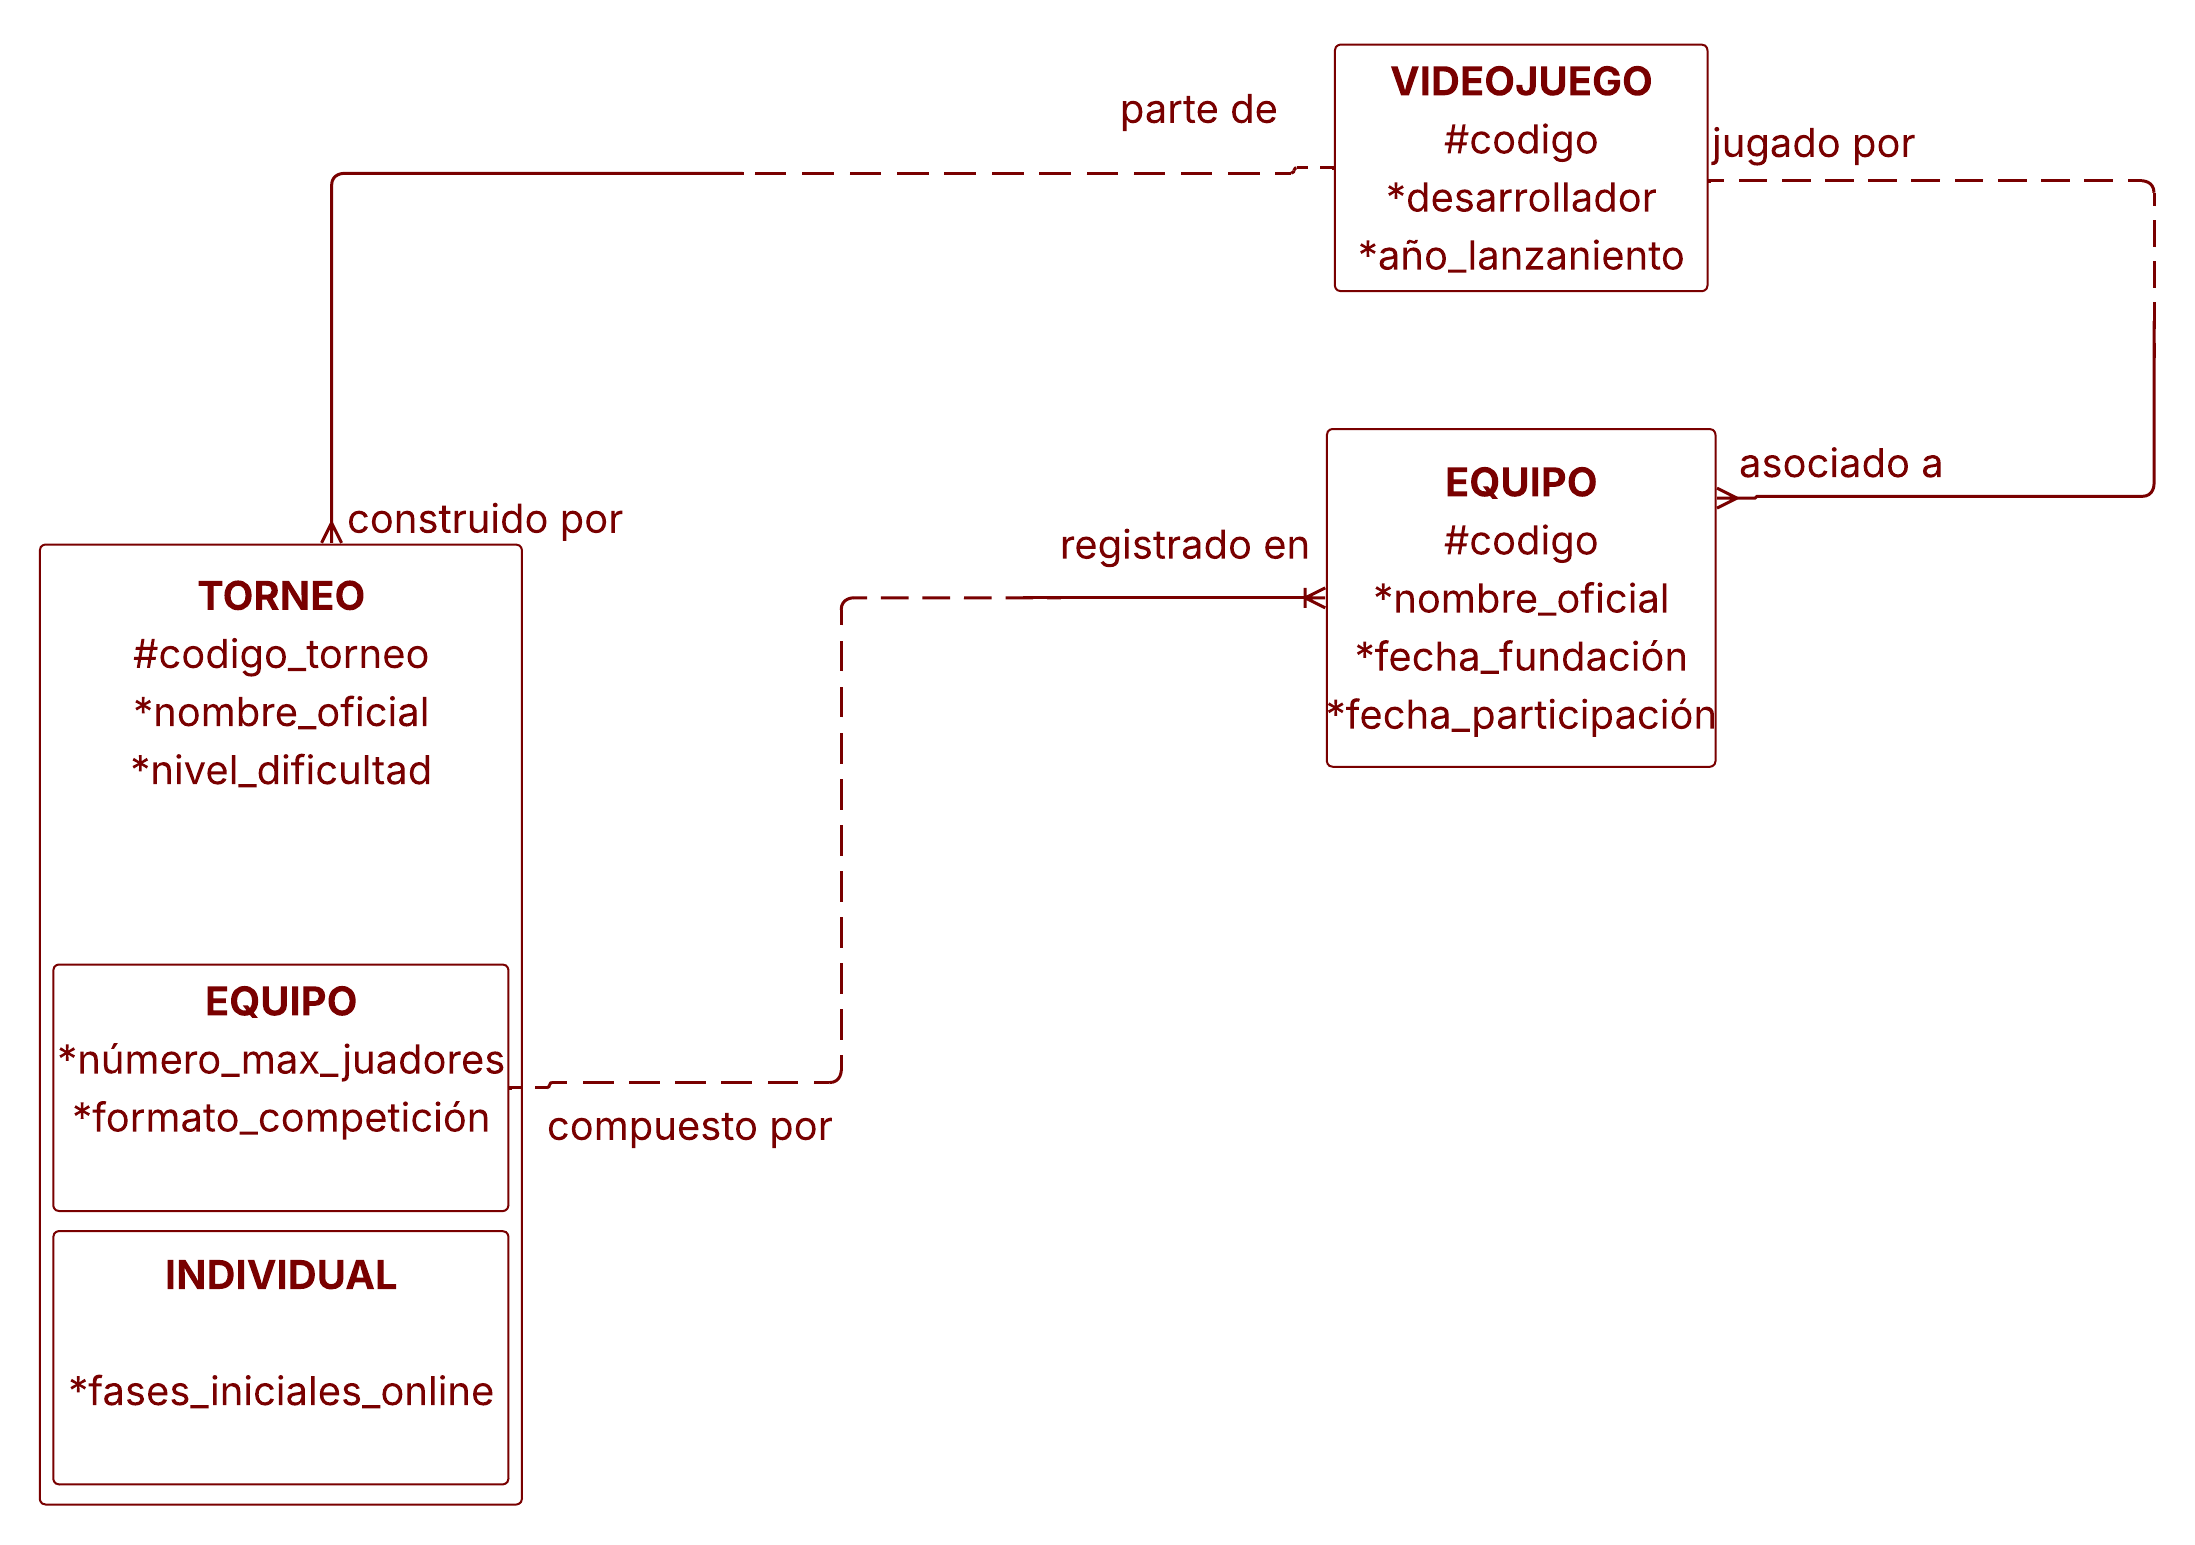
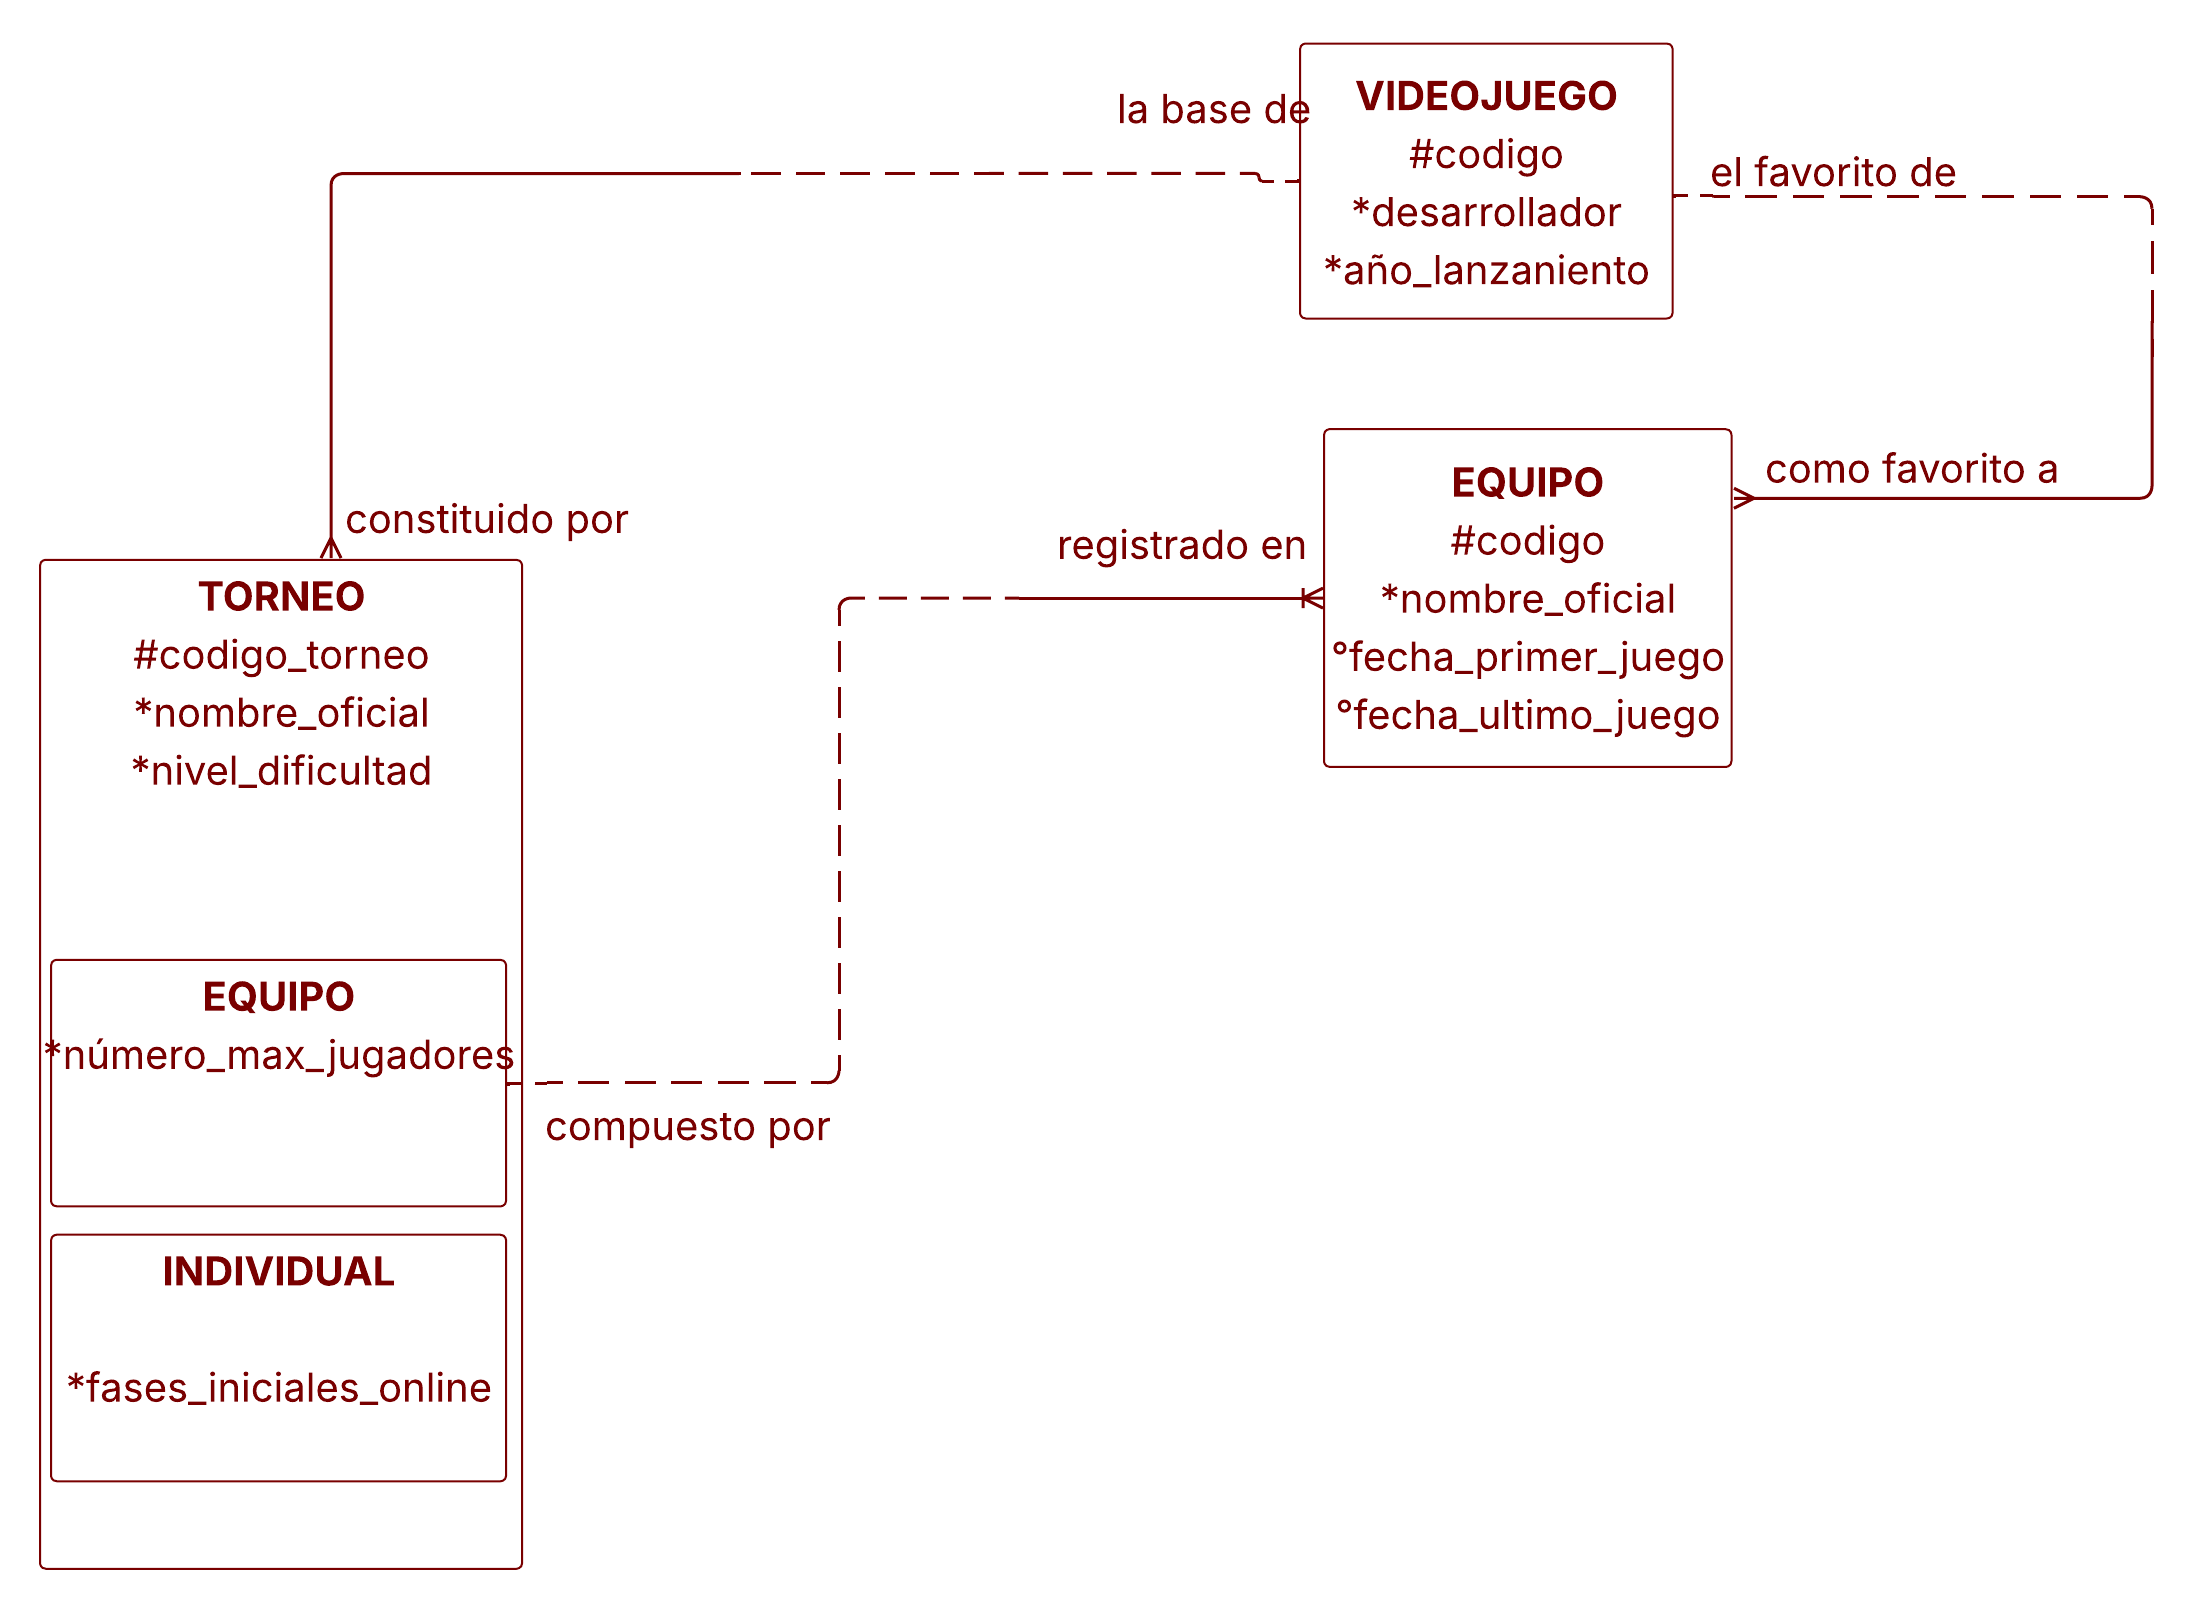
modified:   EQUIPO/equipo.php 	modified:   EQUIPO/equipo_delete.php 	modified:   EQUIPO/equipo_insert.php 	modified:   EQUIPO/equipo_select.php 	modified:   VIDEOJUEGO/videojuego_delete.php 	modified:   dbEjemplo.txt 	modified:   modelo.png

diff --git a/EQUIPO/equipo.php b/EQUIPO/equipo.php
@@ -3,12 +3,12 @@ include "../includes/header.php";
 ?>
 
 <!-- TÍTULO. Cambiarlo, pero dejar especificada la analogía -->
-<h1 class="mt-3 fw-bold">Entidad análoga a EMPRESA (NOMBRE)</h1>
+<h1 class="mt-3 fw-bold">Entidad Equipo</h1>
 
 <!-- FORMULARIO. Cambiar los campos de acuerdo a su trabajo -->
 <div class="formulario p-4 m-3 border rounded-3">
 
-    <form action="empresa_insert.php" method="post" class="form-group">
+    <form action="equipo_insert.php" method="post" class="form-group">
 
         <div class="mb-3">
             <label for="codigo" class="form-label">codigo del equipo</label>
@@ -16,50 +16,34 @@ include "../includes/header.php";
         </div>
 
         <div class="mb-3">
-            <label for="nombre" class="form-label">Nombre del equipo</label>
-            <input type="text" class="form-control" id="nombre" name="nombre" required>
+            <label for="nombre_oficial" class="form-label">Nombre del equipo</label>
+            <input type="text" class="form-control" id="nombre_oficial" name="nombre_oficial" required>
         </div>
 
         <div class="mb-3">
-            <label for="presupuesto" class="form-label">Presupuesto</label>
-            <input type="number" class="form-control" id="presupuesto" name="presupuesto" required>
+            <label for="fecha_primer_juego" class="form-label">Fecha del primer juego</label>
+            <input type="date" class="form-control" id="fecha_primer_juego" name="fecha_primer_juego" required>
         </div>
         
         <div class="mb-3">
-            <label for="fecha_fundacion" class="form-label">Fecha de fundación</label>
-            <input type="date" class="form-control" id="fecha_fundacion" name="fecha_fundacion" required>
-        </div>
-
-        <div class="mb-3">
-            <label for="fecha_participacion" class="form-label">Fecha de participación</label>
-            <input type="date" class="form-control" id="fecha_participacion" name="fecha_participacion" required>
+            <label for="fecha_ultimo_juego" class="form-label">Fecha del último juego</label>
+            <input type="date" class="form-control" id="fecha_ultimo_juego" name="fecha_ultimo_juego" required>
         </div>
         
         <!-- Consultar la lista de clientes y desplegarlos -->
         <div class="mb-3">
-            <label for="cliente" class="form-label">Cliente</label>
-            <select name="cliente" id="cliente" class="form-select">
-                
-                <!-- Option por defecto -->
-                <option value="" selected disabled hidden></option>
-
+            <label for="videojuego_favorito_codigo" class="form-label">Videojuego favorito (código)</label>
+            <select class="form-select" id="videojuego_favorito_codigo" name="videojuego_favorito_codigo">
+                <option value="">Seleccione videojuego...</option>
                 <?php
-                // Importar el código del otro archivo
-                require("../cliente/cliente_select.php");
-                
-                // Verificar si llegan datos
-                if($resultadoCliente):
-                    
-                    // Iterar sobre los registros que llegaron
-                    foreach ($resultadoCliente as $fila):
+                // Cargar opciones desde VIDEOJUEGO/videojuego_select.php
+                require_once('../VIDEOJUEGO/videojuego_select.php');
+                if(isset($resultadovideo) && $resultadovideo->num_rows > 0):
+                    while($v = mysqli_fetch_assoc($resultadovideo)):
                 ?>
-
-                <!-- Opción que se genera -->
-                <option value="<?= $fila["cedula"]; ?>"><?= $fila["nombre"]; ?> - C.C. <?= $fila["cedula"]; ?></option>
-
+                    <option value="<?= htmlspecialchars($v['codigo']); ?>"><?= htmlspecialchars($v['codigo']); ?> - <?= htmlspecialchars($v['desarrollador'] ?? $v['nombre'] ?? ''); ?></option>
                 <?php
-                        // Cerrar los estructuras de control
-                    endforeach;
+                    endwhile;
                 endif;
                 ?>
             </select>
@@ -103,7 +87,7 @@ include "../includes/header.php";
 require("equipo_select.php");
 
 // Verificar si llegan datos
-if($resultadoEmpresa and $resultadoEmpresa->num_rows > 0):
+if(isset($resultadoEquipo) && $resultadoEquipo and $resultadoEquipo->num_rows > 0):
 ?>
 
 <!-- MOSTRAR LA TABLA. Cambiar las cabeceras -->
@@ -114,10 +98,11 @@ if($resultadoEmpresa and $resultadoEmpresa->num_rows > 0):
         <!-- Títulos de la tabla, cambiarlos -->
         <thead class="table-dark">
             <tr>
-                <th scope="col" class="text-center">NIT</th>
+                <th scope="col" class="text-center">Código</th>
                 <th scope="col" class="text-center">Nombre</th>
-                <th scope="col" class="text-center">Presupuesto</th>
-                <th scope="col" class="text-center">Cliente</th>
+                <th scope="col" class="text-center">Fecha primer juego</th>
+                <th scope="col" class="text-center">Fecha último juego</th>
+                <th scope="col" class="text-center">Videojuego código</th>
                 <th scope="col" class="text-center">Acciones</th>
             </tr>
         </thead>
@@ -126,21 +111,22 @@ if($resultadoEmpresa and $resultadoEmpresa->num_rows > 0):
 
             <?php
             // Iterar sobre los registros que llegaron
-            foreach ($resultadoEmpresa as $fila):
+            foreach ($resultadoEquipo as $fila):
             ?>
 
             <!-- Fila que se generará -->
             <tr>
                 <!-- Cada una de las columnas, con su valor correspondiente -->
-                <td class="text-center"><?= $fila["nit"]; ?></td>
-                <td class="text-center"><?= $fila["nombre"]; ?></td>
-                <td class="text-center">$<?= $fila["presupuesto"]; ?></td>
-                <td class="text-center">C.C. <?= $fila["cliente"]; ?></td>
+                <td class="text-center"><?= htmlspecialchars($fila["codigo"]); ?></td>
+                <td class="text-center"><?= htmlspecialchars($fila["nombre_oficial"]); ?></td>
+                <td class="text-center"><?= htmlspecialchars($fila["fecha_primer_juego"] ?? ''); ?></td>
+                <td class="text-center"><?= htmlspecialchars($fila["fecha_ultimo_juego"] ?? ''); ?></td>
+                <td class="text-center"><?= htmlspecialchars($fila["videojuego_favorito_codigo"] ?? ''); ?></td>
                 
                 <!-- Botón de eliminar. Debe de incluir la CP de la entidad para identificarla -->
                 <td class="text-center">
                     <form action="equipo_delete.php" method="post">
-                        <input hidden type="text" name="nitEliminar" value="<?= $fila["nit"]; ?>">
+                        <input hidden type="text" name="codigoEliminar" value="<?= htmlspecialchars($fila["codigo"]); ?>">
                         <button type="submit" class="btn btn-danger">Eliminar</button>
                     </form>
                 </td>

diff --git a/EQUIPO/equipo_insert.php b/EQUIPO/equipo_insert.php
@@ -4,39 +4,56 @@
 require('../config/conexion.php');
 
 // Sacar los datos del formulario. Cada input se identifica con su "name"
-// Datos del formulario
-$nit = isset($_POST["nit"]) ? $_POST["nit"] : '';
-$nombre = isset($_POST["nombre"]) ? $_POST["nombre"] : '';
-$presupuesto = isset($_POST["presupuesto"]) ? $_POST["presupuesto"] : 0;
-$cliente = isset($_POST["cliente"]) ? $_POST["cliente"] : '';
+$codigo = isset($_POST['codigo']) ? intval($_POST['codigo']) : null;
+$nombre_oficial = isset($_POST['nombre_oficial']) ? $_POST['nombre_oficial'] : '';
+$fecha_primer_juego = isset($_POST['fecha_primer_juego']) && $_POST['fecha_primer_juego'] !== '' ? $_POST['fecha_primer_juego'] : null;
+$fecha_ultimo_juego = isset($_POST['fecha_ultimo_juego']) && $_POST['fecha_ultimo_juego'] !== '' ? $_POST['fecha_ultimo_juego'] : null;
+$videojuego_favorito_codigo = isset($_POST['videojuego_favorito_codigo']) && $_POST['videojuego_favorito_codigo'] !== '' ? intval($_POST['videojuego_favorito_codigo']) : null;
 
-// Fechas (opcionalmente enviadas desde el formulario)
-$fecha_fundacion = isset($_POST['fecha_fundacion']) ? $_POST['fecha_fundacion'] : null;
-$fecha_participacion = isset($_POST['fecha_participacion']) ? $_POST['fecha_participacion'] : null;
+// Sanitizar
+$codigo_s = $codigo !== null ? intval($codigo) : null;
+$nombre_s = mysqli_real_escape_string($conn, trim($nombre_oficial));
+$fecha_primer_s = $fecha_primer_juego !== null ? mysqli_real_escape_string($conn, $fecha_primer_juego) : null;
+$fecha_ultimo_s = $fecha_ultimo_juego !== null ? mysqli_real_escape_string($conn, $fecha_ultimo_juego) : null;
+$videojuego_favorito_codigo_s = $videojuego_favorito_codigo !== null ? intval($videojuego_favorito_codigo) : null;
 
-// Validación server-side: fecha_participacion no puede ser mayor que fecha_fundacion
-if($fecha_fundacion && $fecha_participacion){
-	$tFund = strtotime($fecha_fundacion);
-	$tPart = strtotime($fecha_participacion);
-	if($tPart > $tFund){
-		// Redirigir de vuelta al formulario con un error
-		header("Location: equipo.php?error=fecha");
+// Validación server-side: fecha_ultimo_juego no puede ser menor que fecha_primer_juego
+if($fecha_primer_s && $fecha_ultimo_s){
+	$tPrim = strtotime($fecha_primer_s);
+	$tUlt = strtotime($fecha_ultimo_s);
+	if($tUlt < $tPrim){
+		header('Location: equipo.php?error=fecha');
 		exit;
 	}
 }
 
-// Query SQL a la BD. Si tienen que hacer comprobaciones, hacerlas acá (Generar una query diferente para casos especiales)
-$query = "INSERT INTO `empresa`(`nit`,`nombre`, `presupuesto`, `cliente`) VALUES ('$nit', '$nombre', '$presupuesto', '$cliente')";
-
-// Ejecutar consulta
-$result = mysqli_query($conn, $query) or die(mysqli_error($conn));
-
-// Redirigir al usuario a la misma pagina
-if($result):
-    // Si fue exitosa, redirigirse de nuevo a la página de la entidad
-	header("Location: empresa.php");
-else:
-	echo "Ha ocurrido un error al crear la persona";
-endif;
-
-mysqli_close($conn);
+// Insertar en la tabla `equipo` (ajusta nombres de columnas según tu esquema)
+// Si no se seleccionó videojuego favorito, insertar NULL en esa columna.
+if ($videojuego_favorito_codigo_s === null) {
+	$stmt = $conn->prepare("INSERT INTO `equipo` (`codigo`, `nombre_oficial`, `fecha_primer_juego`, `fecha_ultimo_juego`, `videojuego_favorito_codigo`) VALUES (?, ?, ?, ?, NULL)");
+	if(!$stmt){
+		die('Error al preparar la consulta: ' . mysqli_error($conn));
+	}
+	// Bind: i = int, s = string, s = string, s = string
+	$stmt->bind_param('isss', $codigo_s, $nombre_s, $fecha_primer_s, $fecha_ultimo_s);
+	$exec = $stmt->execute();
+} else {
+	$stmt = $conn->prepare("INSERT INTO `equipo` (`codigo`, `nombre_oficial`, `fecha_primer_juego`, `fecha_ultimo_juego`, `videojuego_favorito_codigo`) VALUES (?, ?, ?, ?, ?)");
+	if(!$stmt){
+		die('Error al preparar la consulta: ' . mysqli_error($conn));
+	}
+	// Bind: i = int, s = string, s = string, s = string, i = int
+	$stmt->bind_param('isssi', $codigo_s, $nombre_s, $fecha_primer_s, $fecha_ultimo_s, $videojuego_favorito_codigo_s);
+	$exec = $stmt->execute();
+}
+if($exec){
+	$stmt->close();
+	mysqli_close($conn);
+	header('Location: equipo.php');
+	exit;
+} else {
+	$err = $stmt->error;
+	$stmt->close();
+	mysqli_close($conn);
+	echo 'Ha ocurrido un error al crear el equipo: ' . htmlspecialchars($err);
+}

diff --git a/EQUIPO/equipo_delete.php b/EQUIPO/equipo_delete.php
@@ -3,11 +3,11 @@
 // Crear conexión con la BD
 require('../config/conexion.php');
 
-// Sacar la CP de la entidad
-$nitEliminar = $_POST["nitEliminar"];
+// Sacar la clave primaria de la entidad enviada desde el formulario
+$codigoEliminar = isset($_POST['codigoEliminar']) ? $_POST['codigoEliminar'] : null;
 
-// Query SQL a la BD
-$query = "DELETE FROM empresa WHERE nit = '$nitEliminar'";
+// Query SQL a la BD (tabla `equipo` con columna `codigo`)
+$query = "DELETE FROM equipo WHERE codigo = '" . mysqli_real_escape_string($conn, $codigoEliminar) . "'";
 
 // Ejecutar consulta
 $result = mysqli_query($conn, $query) or die(mysqli_error($conn));

diff --git a/VIDEOJUEGO/videojuego_delete.php b/VIDEOJUEGO/videojuego_delete.php
@@ -4,10 +4,13 @@
 require('../config/conexion.php');
 
 // Sacar la CP de la entidad
-$codigoEliminar = $_POST["codigoEliminar"];
+$codigoEliminar = isset($_POST['codigoEliminar']) ? $_POST['codigoEliminar'] : null;
 
-// Query SQL a la BD
-$query = "DELETE FROM proyecto WHERE codigo = '$codigoEliminar'";
+// Sanitizar entrada
+$codigoEliminar_s = mysqli_real_escape_string($conn, $codigoEliminar);
+
+// Query SQL a la BD - eliminar desde la tabla correcta `videojuego`
+$query = "DELETE FROM videojuego WHERE codigo = '$codigoEliminar_s'";
 
 // Ejecutar consulta
 $result = mysqli_query($conn, $query) or die(mysqli_error($conn));

diff --git a/EQUIPO/equipo_select.php b/EQUIPO/equipo_select.php
@@ -4,9 +4,9 @@
 require('../config/conexion.php');
 
 // Query SQL a la BD
-$query = "SELECT * FROM empresa";
+$query = "SELECT * FROM equipo";
 
 // Ejecutar la consulta
-$resultadoEmpresa = mysqli_query($conn, $query) or die(mysqli_error($conn));
+$resultadoEquipo = mysqli_query($conn, $query) or die(mysqli_error($conn));
 
 mysqli_close($conn);
